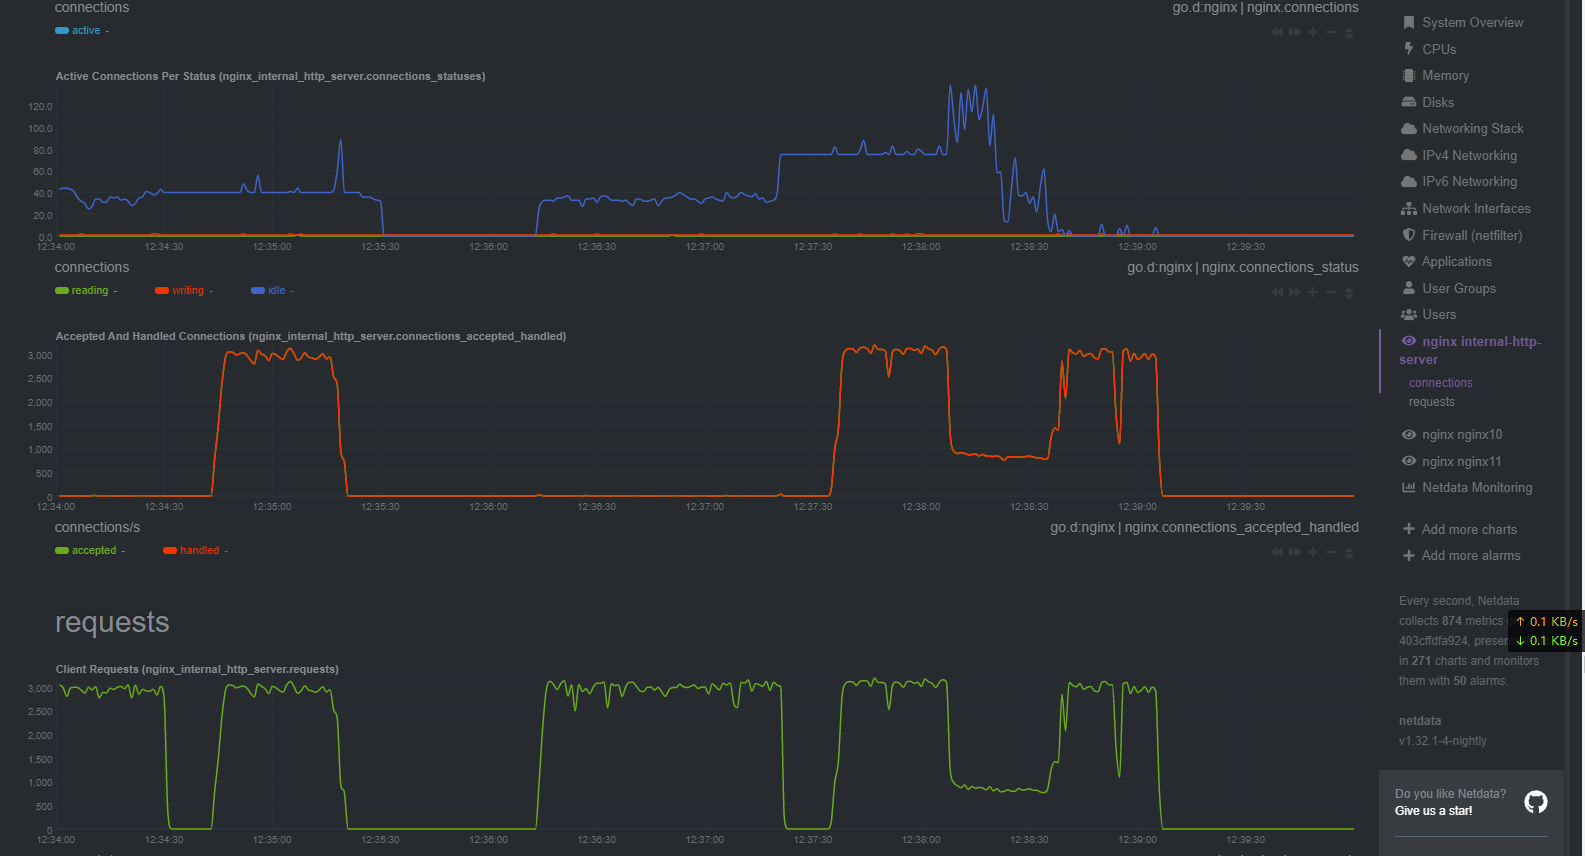
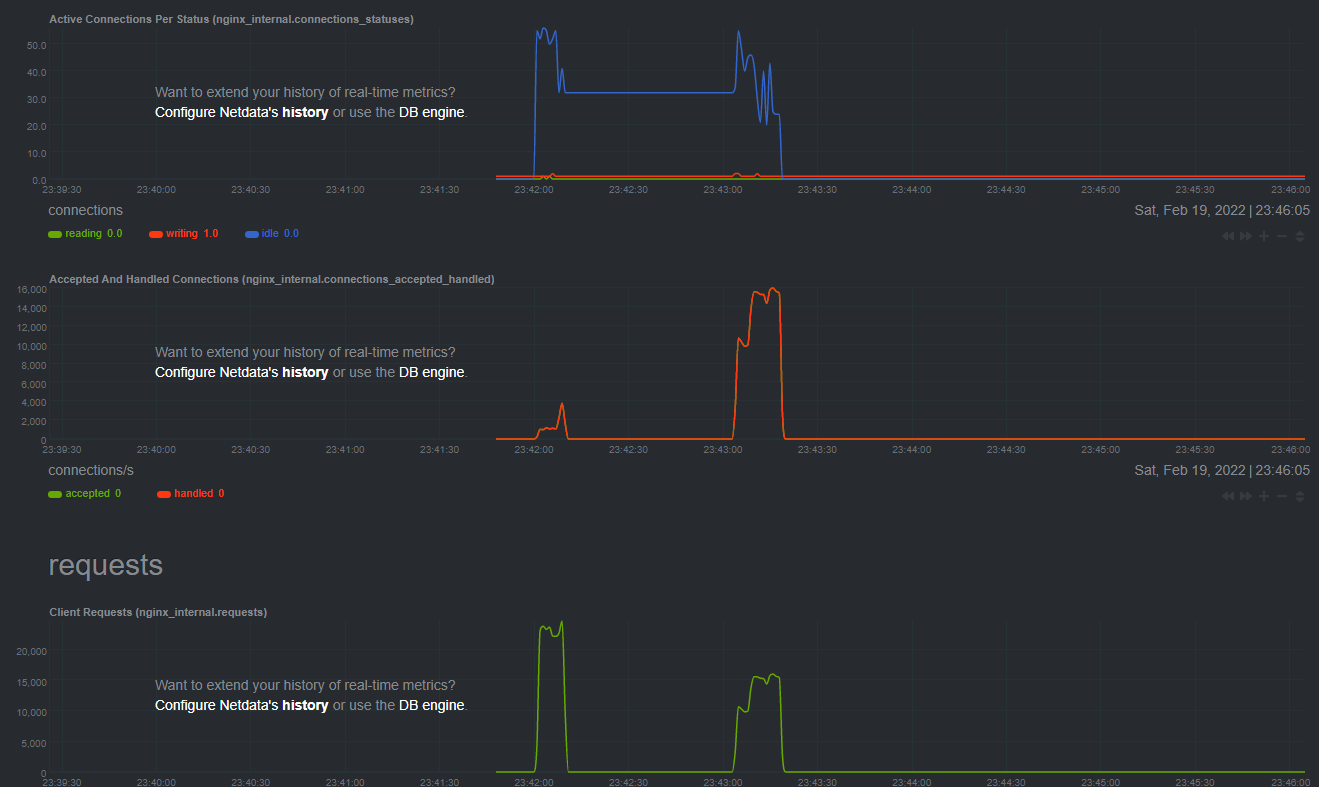
refactor nginx

diff --git a/README.md b/README.md
@@ -12,50 +12,52 @@ docker-compose up -d --build
 
 
 ```bash
-docker exec -it internal-http-server bash
+docker exec -it internal bash
 
 # ab 跑完后再停止抓包
-tcpdump -w ihs.pcap
+tcpdump -w internal.pcap
 
-docker cp internal-http-server:/ihs.pcap ihs.pcap
+docker cp internal:/internal.pcap internal.pcap
 ```
 
-[http1.1 and keeplive](ab-result/nginx11.log)
+[http1.1 and keeplive](ab-result/http1.1.log)
 ```bash
-# 12:34:45 ~ 12:35:45
-ab -c 100 -n 200000 -k http://192.168.2.201:60011/
+ab -c 100 -n 200000 -k http://192.168.2.201:60080/http1.1
+
+Requests per second:    23247.32 [#/sec] (mean)
 
 Percentage of the requests served within a certain time (ms)
-  50%     32
-  66%     35
-  75%     36
-  80%     37
-  90%     40
-  95%     45
-  98%     55
-  99%     64
- 100%    221 (longest request)
+  50%      4
+  66%      6
+  75%      8
+  80%      8
+  90%     10
+  95%     12
+  98%     14
+  99%     16
+ 100%     32 (longest request)
 ```
 
-[http1.0 and close](ab-result/nginx10.log)
+[http1.0 and close](ab-result/http1.0.log)
 ```bash
-## 12:37:30 ~ 12:39:00
-ab -c 100 -n 200000 -k http://192.168.2.201:60010/
+ab -c 100 -n 200000 -k http://192.168.2.201:60080/http1.0
+
+Requests per second:    13778.78 [#/sec] (mean)
 
 Percentage of the requests served within a certain time (ms)
-  50%     33
-  66%     36
-  75%     39
-  80%     42
-  90%     93
-  95%    112
-  98%    183
-  99%    204
- 100%   1055 (longest request)
+  50%      6
+  66%     10
+  75%     13
+  80%     14
+  90%     17
+  95%     19
+  98%     21
+  99%     25
+ 100%     47 (longest request)
 ```
 
-![internal-http-server监控](img/netdata.png)
-![internal-http-server wireshark io graph](img/wireshark-io-graph.png)
+![监控](img/netdata.png)
+![wireshark io graph](img/wireshark-io-graph.png)
 
 # reference
 
